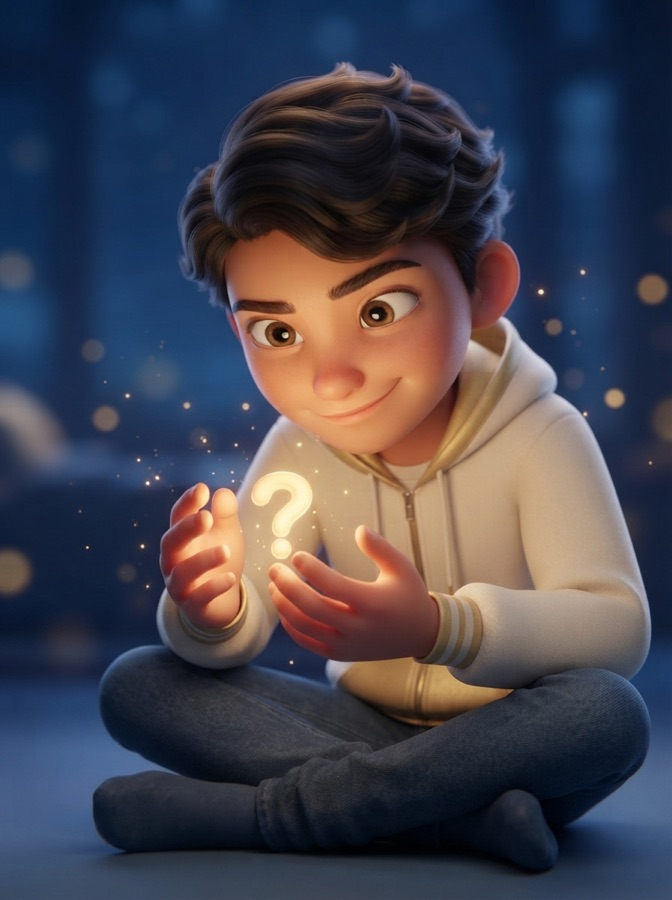
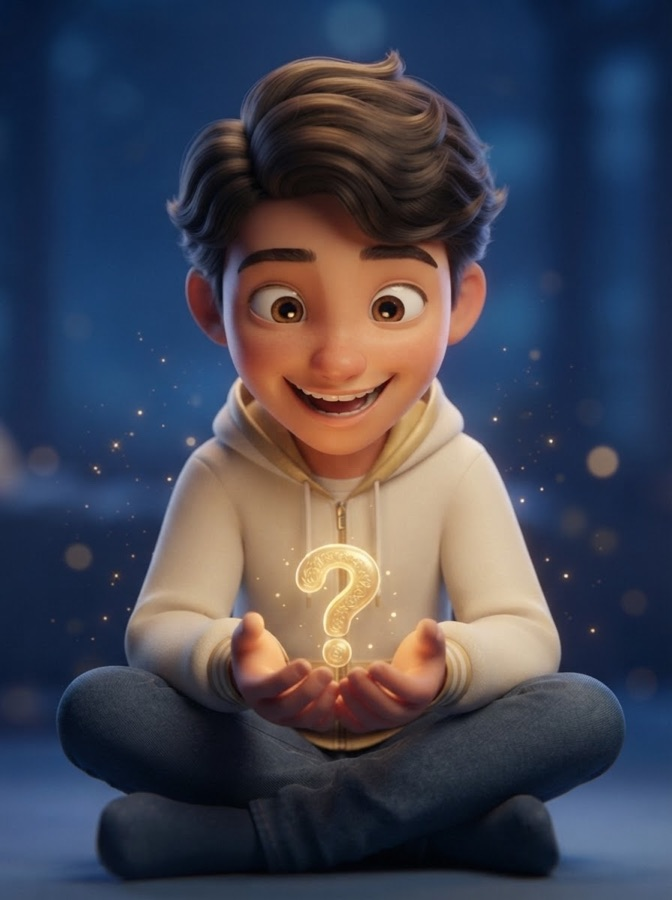
Doğru Taraf: sinsi/smirk ifadeli 4 kart görselini sıcak ifadeyle değiştir
kart-03/05/06/08'deki yan-bakış/kısık-göz smirk ifadeleri genuine açık
gülümsemeyle değiştirildi. sw.js önbellek sürümü v4'e çıkarıldı ki
kurulu PWA kullanıcıları eski görselleri önbellekten görmeye devam etmesin.

diff --git a/dogru-taraf/sw.js b/dogru-taraf/sw.js
@@ -6,7 +6,7 @@
    ============================================================ */
 "use strict";
 
-var CACHE_ADI = "dogrutaraf-cache-v3";
+var CACHE_ADI = "dogrutaraf-cache-v4";
 var CACHE_DOSYALARI = [
   "./",
   "index.html",
